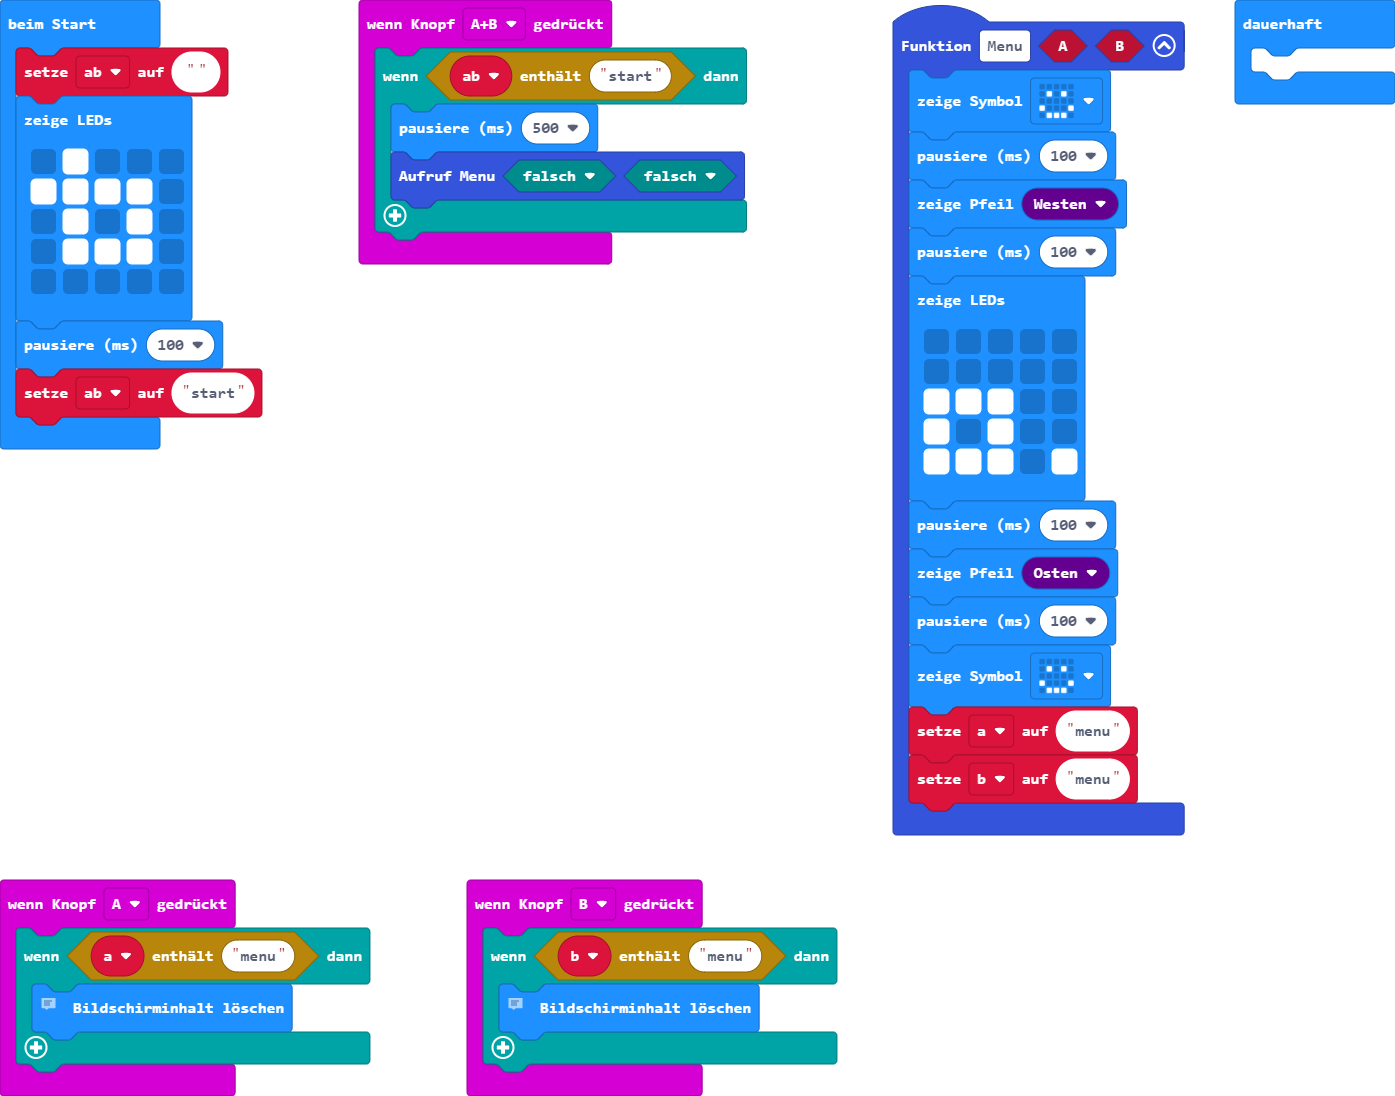
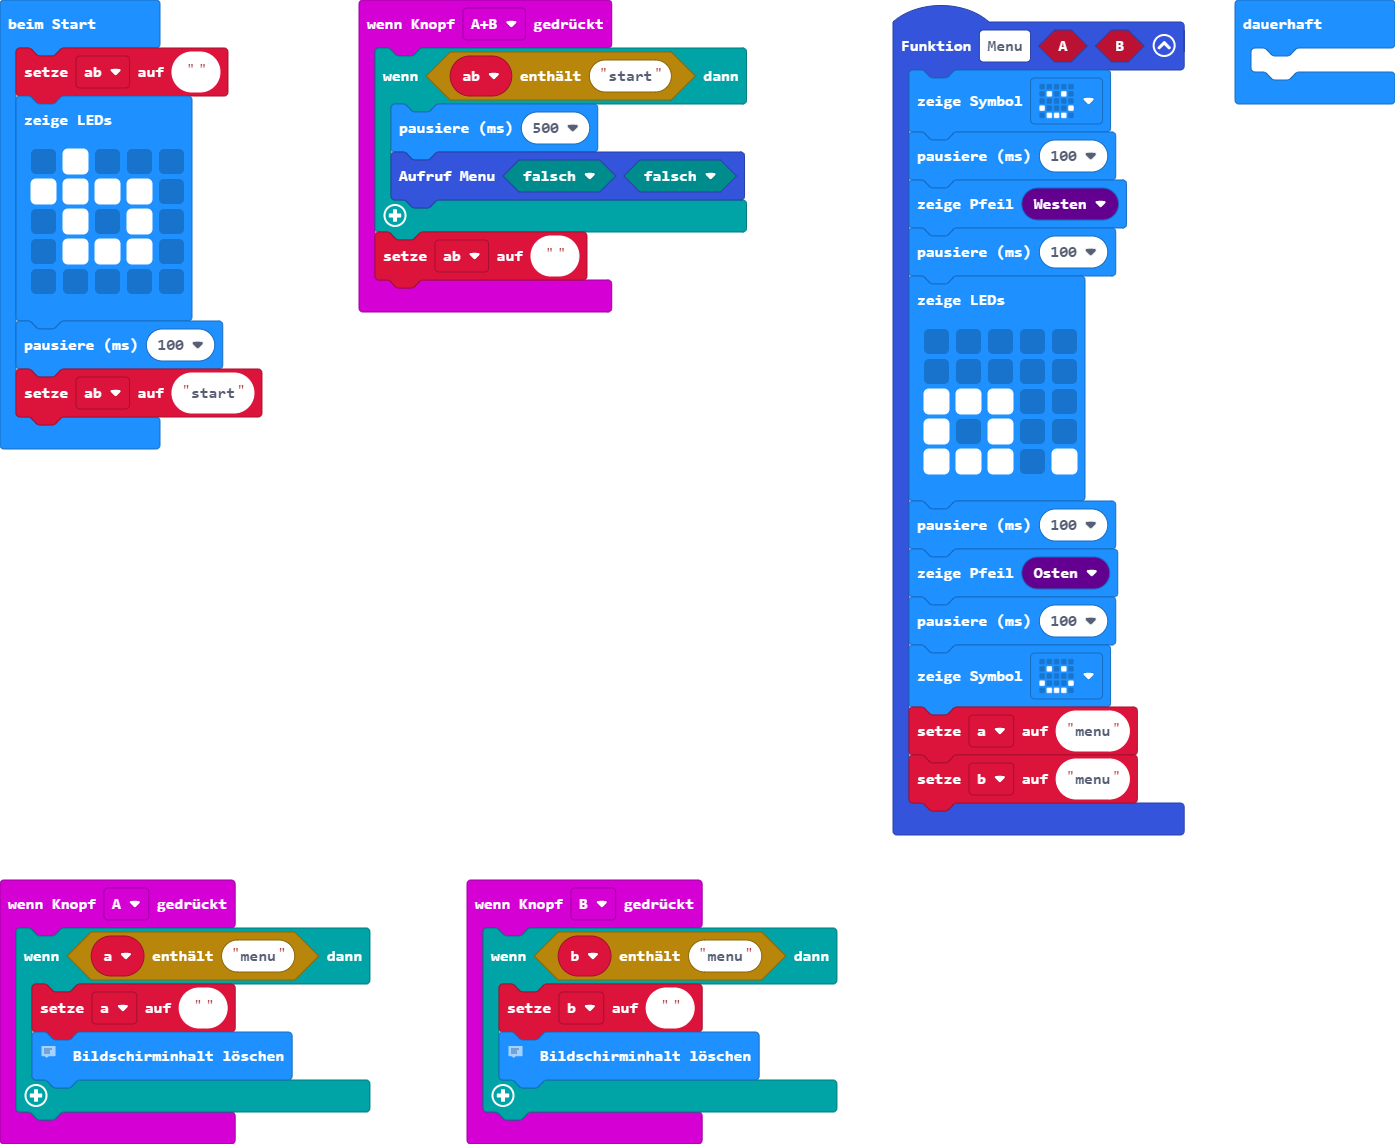
Aktualisiere main.blocks, main.ts

diff --git a/main.ts b/main.ts
@@ -1,5 +1,6 @@
 input.onButtonPressed(Button.A, function () {
     if (a.includes("menu")) {
+        a = ""
         // Type code in the next line
         basic.clearScreen()
     }
@@ -9,9 +10,11 @@ input.onButtonPressed(Button.AB, function () {
         basic.pause(500)
         Menu(false, false)
     }
+    ab = ""
 })
 input.onButtonPressed(Button.B, function () {
     if (b.includes("menu")) {
+        b = ""
         // Type code in the next line
         basic.clearScreen()
     }
